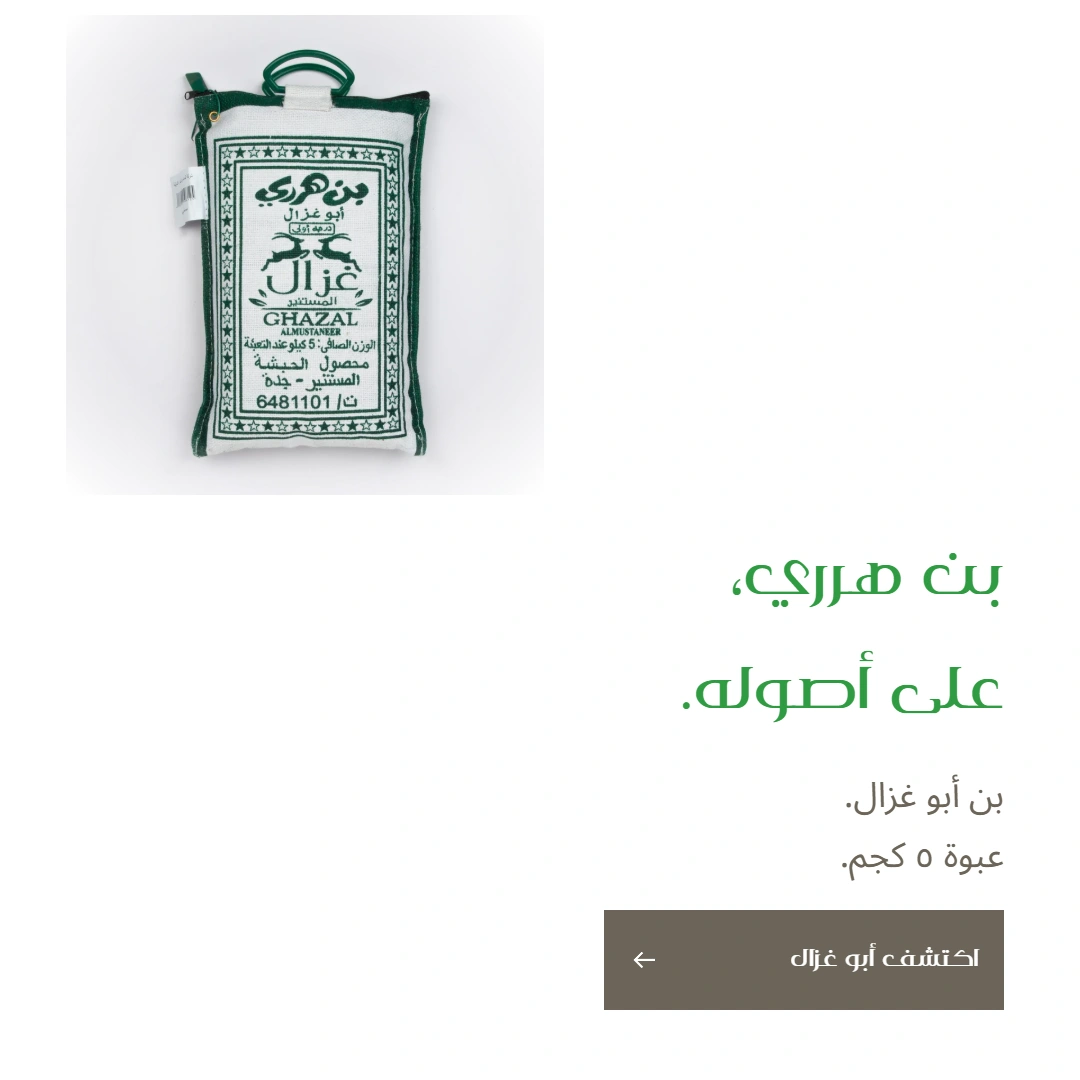
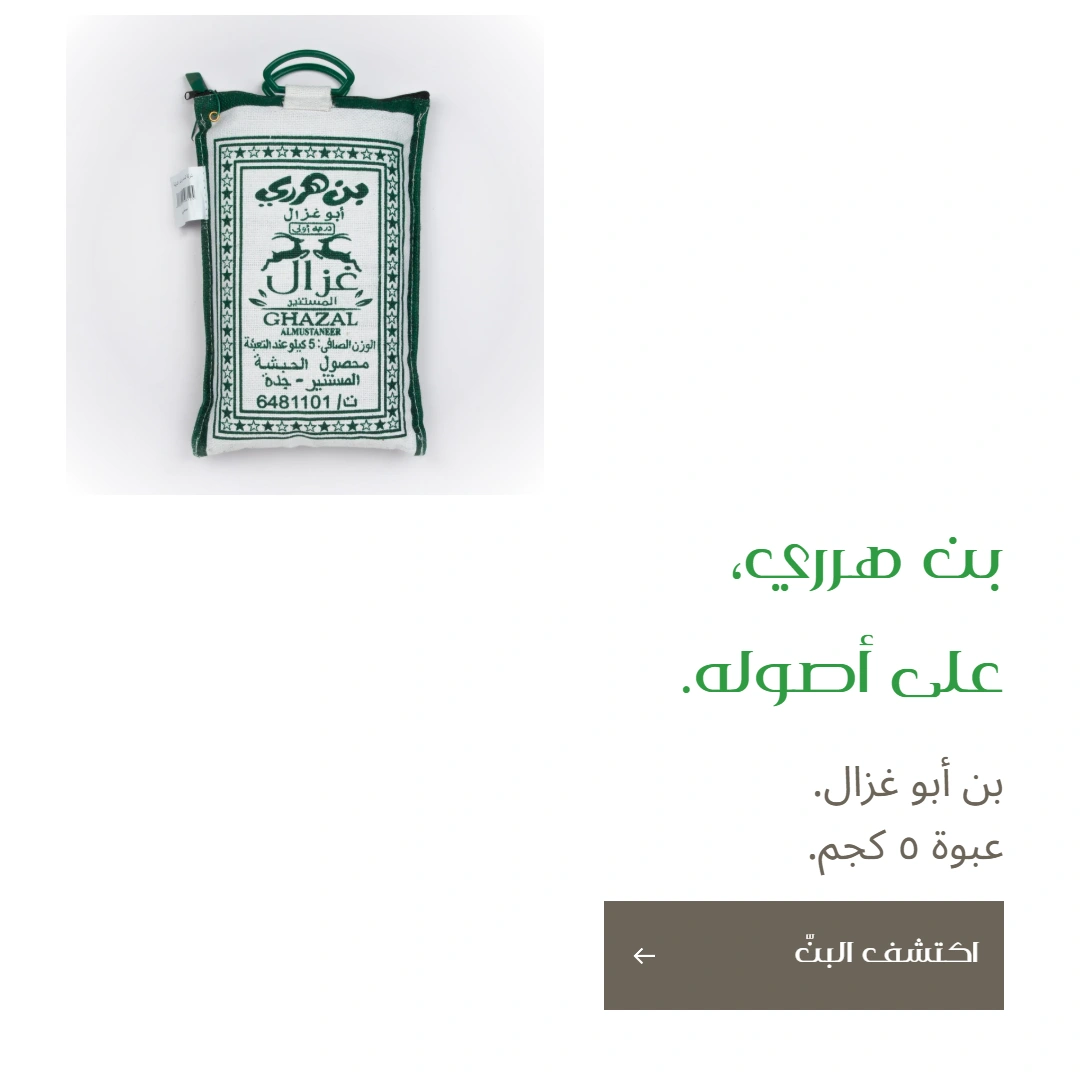
Improve mobile campaign legibility and coffee CTA

diff --git a/site/almustaneer/index.html b/site/almustaneer/index.html
@@ -1,6 +1,6 @@
 <!doctype html>
 <html lang="ar" dir="rtl">
-<head><meta charset="utf-8"><meta name="viewport" content="width=device-width,initial-scale=1"><meta name="theme-color" content="#153f30"><meta name="robots" content="noindex,nofollow"><meta name="description" content="اكتشف تشكيلة المستنير من البن والهيل، وقارن العبوات وجهّز قائمة استفسارك."><title>المستنير | أصل الضيافة، بنّ وهيل</title><link rel="icon" href="assets/logo.png"><link rel="preload" href="assets/etab.otf" as="font" type="font/otf" crossorigin><link rel="stylesheet" href="styles.css?v=4"><link rel="stylesheet" href="responsive-fixes.css?v=4"><link rel="stylesheet" href="campaigns.css?v=5"><link rel="stylesheet" href="white-theme.css?v=7"></head>
+<head><meta charset="utf-8"><meta name="viewport" content="width=device-width,initial-scale=1"><meta name="theme-color" content="#153f30"><meta name="robots" content="noindex,nofollow"><meta name="description" content="اكتشف تشكيلة المستنير من البن والهيل، وقارن العبوات وجهّز قائمة استفسارك."><title>المستنير | أصل الضيافة، بنّ وهيل</title><link rel="icon" href="assets/logo.png"><link rel="preload" href="assets/etab.otf" as="font" type="font/otf" crossorigin><link rel="stylesheet" href="styles.css?v=4"><link rel="stylesheet" href="responsive-fixes.css?v=4"><link rel="stylesheet" href="campaigns.css?v=5"><link rel="stylesheet" href="white-theme.css?v=8"></head>
 <body>
 <a class="skip" href="#main">انتقل إلى المحتوى</a>
 <div class="announcement">البنّ والهيل… تفاصيل الضيافة تبدأ هنا <span>معاينة · أسعار تجريبية · الطلب غير مفعّل</span></div>
@@ -10,16 +10,16 @@
  <div class="header-tools"><button class="icon-btn" id="search-toggle" aria-label="البحث في المنتجات"><svg viewBox="0 0 24 24"><circle cx="10.5" cy="10.5" r="6.5"/><path d="m16 16 5 5"/></svg></button><button class="icon-btn quote-open" aria-label="فتح قائمة الاستفسار"><svg viewBox="0 0 24 24"><path d="M5 7h14l1 14H4L5 7Z M8 8V6a4 4 0 0 1 8 0v2"/></svg><span id="quote-count">0</span></button><button class="icon-btn mobile-menu" aria-label="فتح القائمة" aria-expanded="false" aria-controls="navigation"><svg viewBox="0 0 24 24"><path d="M3 6h18M3 12h18M3 18h18"/></svg></button></div>
 </div></header>
 <main id="main">
-<section class="campaign campaign-hero" aria-label="أصل الضيافة، يبدأ من هنا."><h1 class="sr-only">أصل الضيافة، يبدأ من هنا.</h1><a class="campaign-link" href="#collection" data-category="all" aria-label="أصل الضيافة، يبدأ من هنا. — تصفّح التشكيلة"><picture><source media="(max-width:700px)" srcset="banners-white/hero-mobile.webp?v=7"><img src="banners-white/hero-desktop.webp?v=7" width="1920" height="820" fetchpriority="high" alt="أصل الضيافة، يبدأ من هنا. — اكتشف البنّ"></picture></a></section>
+<section class="campaign campaign-hero" aria-label="أصل الضيافة، يبدأ من هنا."><h1 class="sr-only">أصل الضيافة، يبدأ من هنا.</h1><a class="campaign-link" href="#collection" data-category="all" aria-label="أصل الضيافة، يبدأ من هنا. — تصفّح التشكيلة"><picture><source media="(max-width:700px)" srcset="banners-white/hero-mobile.webp?v=8"><img src="banners-white/hero-desktop.webp?v=8" width="1920" height="820" fetchpriority="high" alt="أصل الضيافة، يبدأ من هنا. — اكتشف البنّ"></picture></a></section>
 <div class="category-rail wrap"><a href="#collection" data-category="coffee"><span>البنّ</span><small>اختيارك يبدأ من الحبة</small><svg viewBox="0 0 24 24"><path d="M20 12H4m6-6-6 6 6 6"/></svg></a><a href="#collection" data-category="cardamom"><span>الهيل</span><small>التفصيلة التي تصنع النكهة</small><svg viewBox="0 0 24 24"><path d="M20 12H4m6-6-6 6 6 6"/></svg></a><a href="#collection" data-category="bulk"><span>عبوات الجملة</span><small>خيارات تناسب احتياج نشاطك</small><svg viewBox="0 0 24 24"><path d="M20 12H4m6-6-6 6 6 6"/></svg></a></div>
 <section id="collection" class="collection wrap"><div class="section-heading"><div><h2>من أصول الضيافة</h2><p>تعرّف على الأصناف، واختر العبوة المناسبة لك.</p></div><span id="result-count" class="result-count" aria-live="polite"></span></div>
 <div class="catalog-controls"><div class="filters" role="group" aria-label="تصفية المنتجات"><button data-filter="all" aria-pressed="true">جميع المنتجات</button><button data-filter="coffee" aria-pressed="false">البنّ</button><button data-filter="cardamom" aria-pressed="false">الهيل</button><button data-filter="bulk" aria-pressed="false">عبوات الجملة</button></div><label class="search-box"><svg viewBox="0 0 24 24"><circle cx="10.5" cy="10.5" r="6.5"/><path d="m16 16 5 5"/></svg><input id="search" type="search" placeholder="ابحث عن صنف أو عبوة" aria-label="ابحث عن منتج"></label></div>
 <p class="demo-price-note">الأسعار المعروضة افتراضية لتجربة التصميم، وليست عروض بيع. يُؤكَّد السعر والتوفر قبل أي طلب.</p><div class="products" id="products"></div><div id="empty" class="empty" hidden><h3>لم نجد صنفًا بهذا الاسم</h3><p>جرّب البحث عن «بن» أو «هيل»، أو اعرض التشكيلة كاملة.</p><button id="reset-search" class="button">عرض جميع المنتجات</button></div>
 <p class="catalog-note">صور العبوات مرجعية، وأسعار المعاينة تجريبية. السعر الفعلي والتوفر وبيانات الدفعات تُؤكّد قبل الطلب.</p><button id="show-more" class="button outline">عرض بقية التشكيلة <span id="more-count"></span></button>
 </section>
-<section class="campaign wrap" aria-label="بن هرري، على أصوله."><h2 class="sr-only">بن هرري، على أصوله.</h2><a class="campaign-link" href="#collection" data-category="coffee" aria-label="بن هرري، على أصوله. — تصفّح التشكيلة"><picture><source media="(max-width:700px)" srcset="banners-white/coffee-mobile.webp?v=7"><img src="banners-white/coffee-desktop.webp?v=7" width="1920" height="820" loading="lazy" alt="بن هرري، على أصوله. — اكتشف البنّ"></picture></a></section>
-<section class="campaign wrap" aria-label="لنشاطك، اختيار مدروس."><h2 class="sr-only">لنشاطك، اختيار مدروس.</h2><a class="campaign-link" href="#collection" data-category="bulk" aria-label="لنشاطك، اختيار مدروس. — تصفّح التشكيلة"><picture><source media="(max-width:700px)" srcset="banners-white/bulk-mobile.webp?v=7"><img src="banners-white/bulk-desktop.webp?v=7" width="1920" height="820" loading="lazy" alt="لنشاطك، اختيار مدروس. — جهّز اختياراتك للمحامص والمتاجر"></picture></a></section>
-<section class="campaign wrap" aria-label="تفصيلة صغيرة، تصنع النكهة."><h2 class="sr-only">تفصيلة صغيرة، تصنع النكهة.</h2><a class="campaign-link" href="#collection" data-category="cardamom" aria-label="تفصيلة صغيرة، تصنع النكهة. — تصفّح التشكيلة"><picture><source media="(max-width:700px)" srcset="banners-white/cardamom-mobile.webp?v=7"><img src="banners-white/cardamom-desktop.webp?v=7" width="1920" height="820" loading="lazy" alt="تفصيلة صغيرة، تصنع النكهة. — اكتشف الهيل"></picture></a></section>
+<section class="campaign wrap" aria-label="بن هرري، على أصوله."><h2 class="sr-only">بن هرري، على أصوله.</h2><a class="campaign-link" href="#collection" data-category="coffee" aria-label="بن هرري، على أصوله. — تصفّح التشكيلة"><picture><source media="(max-width:700px)" srcset="banners-white/coffee-mobile.webp?v=8"><img src="banners-white/coffee-desktop.webp?v=8" width="1920" height="820" loading="lazy" alt="بن هرري، على أصوله. — اكتشف البنّ"></picture></a></section>
+<section class="campaign wrap" aria-label="لنشاطك، اختيار مدروس."><h2 class="sr-only">لنشاطك، اختيار مدروس.</h2><a class="campaign-link" href="#collection" data-category="bulk" aria-label="لنشاطك، اختيار مدروس. — تصفّح التشكيلة"><picture><source media="(max-width:700px)" srcset="banners-white/bulk-mobile.webp?v=8"><img src="banners-white/bulk-desktop.webp?v=8" width="1920" height="820" loading="lazy" alt="لنشاطك، اختيار مدروس. — جهّز اختياراتك للمحامص والمتاجر"></picture></a></section>
+<section class="campaign wrap" aria-label="تفصيلة صغيرة، تصنع النكهة."><h2 class="sr-only">تفصيلة صغيرة، تصنع النكهة.</h2><a class="campaign-link" href="#collection" data-category="cardamom" aria-label="تفصيلة صغيرة، تصنع النكهة. — تصفّح التشكيلة"><picture><source media="(max-width:700px)" srcset="banners-white/cardamom-mobile.webp?v=8"><img src="banners-white/cardamom-desktop.webp?v=8" width="1920" height="820" loading="lazy" alt="تفصيلة صغيرة، تصنع النكهة. — اكتشف الهيل"></picture></a></section>
 <section id="wholesale" class="wholesale"><div class="wrap wholesale-inner"><div class="wholesale-copy"><h2>للمحامص والمتاجر،<br>اختيار يبدأ بالتفاصيل.</h2><p>حدّد الأصناف والعبوات والكميات المطلوبة في قائمة واحدة. جهّز استفسارك عن التوفر والسعر، دون أن يفوتك صنف.</p><button class="button cream quote-open">جهّز قائمة استفسارك <svg viewBox="0 0 24 24"><path d="M20 12H4m6-6-6 6 6 6"/></svg></button></div><div class="wholesale-products"><img src="assets/product-12.webp" alt="كيس بن من تشكيلة المستنير" loading="lazy"><img src="assets/product-13.webp" alt="كرتون هيل أبو طيارة XL" loading="lazy"></div></div></section>
 <section id="story" class="story wrap"><div><h2>المستنير.<br>اسم يجمع البنّ والهيل.</h2></div><div><p class="story-lead">من البنّ الهرري إلى الهيل الهندي، تجمع تشكيلة المستنير خيارات من صميم ثقافة القهوة والضيافة.</p><p>نضع تفاصيل العبوة في متناولك، لتقارن بين الأصناف والأحجام وتبدأ اختيارك على معرفة. لأن الفنجان الذي تقدّمه، يبدأ بما تختاره.</p><a href="#collection" class="underlink" data-category="all">تعرّف على التشكيلة <span aria-hidden="true">←</span></a></div></section>
 <section class="faq wrap"><h2>قبل أن تختار</h2><div><details><summary>كيف أختار بين العبوات؟</summary><p>راجع وزن العبوة واسم الصنف في تفاصيل المنتج. بعض الصور تعرض عبوات صغيرة، وأخرى أكياسًا أو كراتين. تفاصيل العبوات غير الواضحة تحتاج تأكيدًا قبل الطلب.</p></details><details><summary>هل الأسعار والتوفر مؤكّدان؟</summary><p>هذه معاينة للتشكيلة بأسعار افتراضية لتجربة التصميم، وليست عروض بيع. لم تُعتمد الأسعار الحقيقية أو كميات المخزون بعد. صور بعض العبوات أرشيفية، ولا تعبّر عن دفعات حالية متاحة للبيع.</p></details><details><summary>كيف أجهّز طلب جملة؟</summary><p>أضف الأصناف إلى قائمة الاستفسار، ثم حدّد عدد العبوات. يمكنك نسخ القائمة أو تنزيلها للاحتفاظ بها. لا تُرسل القائمة تلقائيًا، ولا تُنشئ طلب شراء.</p></details><details><summary>ما خيارات الشحن والدفع؟</summary><p>لا توجد مدفوعات أو عمليات شراء في هذه المعاينة. يمكنك الاطلاع على <a class="underlink" href="policies.html">السياسات المقترحة للبيع والشحن والاسترجاع</a>، على أن تُعتمد تفاصيل التشغيل قبل تفعيل الطلبات.</p></details></div></section>
@@ -27,6 +27,7 @@
 <footer><div class="footer-main wrap"><div><img src="assets/logo.png" alt="شركة المستنير للتجارة الدولية" width="320" height="65"><p>أصل الضيافة، يبدأ من هنا.</p></div><div><h3>اكتشف التشكيلة</h3><a href="#collection" data-category="coffee">البنّ</a><a href="#collection" data-category="cardamom">الهيل</a><a href="#wholesale">طلبات الجملة</a></div><div><h3>المستنير</h3><a href="#story">عن المستنير</a><button class="footer-link quote-open">قائمة الاستفسار</button><p>معاينة تصميمية · غير مفعّلة للبيع</p></div><div><h3>السياسات والمساعدة</h3><a href="policies.html#sales">شروط البيع</a><a href="policies.html#shipping">الشحن والتوصيل</a><a href="policies.html#returns">الاستبدال والاسترجاع</a><a href="policies.html#privacy">سياسة الخصوصية</a></div></div><div class="footer-bottom wrap"><span>شركة المستنير للتجارة الدولية</span><span>البنّ والهيل، بروح الضيافة.</span></div></footer>
 <dialog id="product-dialog" aria-labelledby="detail-title"><button class="dialog-close icon-btn" aria-label="إغلاق تفاصيل المنتج"><svg viewBox="0 0 24 24"><path d="m6 6 12 12M18 6 6 18"/></svg></button><div id="product-detail"></div></dialog>
 <dialog id="quote-dialog" aria-labelledby="quote-title"><button class="dialog-close icon-btn" aria-label="إغلاق قائمة الاستفسار"><svg viewBox="0 0 24 24"><path d="m6 6 12 12M18 6 6 18"/></svg></button><h2 id="quote-title">قائمة استفسارك</h2><p class="quote-intro">أصنافك في مكان واحد. حدّد عدد العبوات، ثم احتفظ بالقائمة للاستفسار عن السعر والتوفر.</p><div id="quote-items"></div><div id="quote-actions"><button class="button" id="copy-quote">نسخ الاستفسار</button><button class="button outline" id="download-quote">تنزيل القائمة</button></div><p class="quote-note">هذه قائمة محلية على جهازك. لا يتم إرسالها أو حجز مخزون أو إنشاء طلب شراء.</p></dialog>
-<div id="toast" role="status" aria-live="polite"></div><script src="products.js?v=7"></script><script src="app.js?v=7"></script>
+<div id="toast" role="status" aria-live="polite"></div><script src="products.js?v=8"></script><script src="app.js?v=8"></script>
 </body></html>
+
 

diff --git a/site/almustaneer/policies.html b/site/almustaneer/policies.html
@@ -1,4 +1,4 @@
-<!doctype html><html lang="ar" dir="rtl"><head><meta charset="utf-8"><meta name="viewport" content="width=device-width,initial-scale=1"><meta name="robots" content="noindex,nofollow"><title>السياسات والمساعدة | المستنير</title><link rel="icon" href="assets/logo.png"><link rel="stylesheet" href="styles.css?v=4"><link rel="stylesheet" href="responsive-fixes.css?v=4"><link rel="stylesheet" href="white-theme.css?v=7"></head><body><header><div class="header-inner"><a class="brand" href="./" aria-label="العودة إلى المستنير"><img src="assets/logo.png" width="1042" height="210" alt="شركة المستنير للتجارة الدولية"></a><a class="policy-back" href="./">العودة للمتجر ←</a></div></header><main class="policy-shell"><p>المستنير · السياسات والمساعدة</p><h1>وضوح في كل خطوة.</h1><p>شروط البيع، تفاصيل الشحن، وحقوقك عند الاسترجاع واستخدام بياناتك.</p><div class="policy-notice"><strong>مسودة مقترحة قبل إطلاق البيع</strong><p>الموقع حاليًا معاينة للتشكيلة، ولا يستقبل مدفوعات أو طلبات شراء. بنود البيع والشحن والاسترجاع التالية مقترحة للاعتماد قبل الإطلاق؛ أما قسم خصوصية المعاينة فيصف طريقة عمل الموقع الحالي.</p></div><nav class="policy-nav" aria-label="أقسام السياسات"><a href="#sales">شروط البيع</a><a href="#shipping">الشحن والتوصيل</a><a href="#returns">الاستبدال والاسترجاع</a><a href="#privacy">الخصوصية</a></nav>
+<!doctype html><html lang="ar" dir="rtl"><head><meta charset="utf-8"><meta name="viewport" content="width=device-width,initial-scale=1"><meta name="robots" content="noindex,nofollow"><title>السياسات والمساعدة | المستنير</title><link rel="icon" href="assets/logo.png"><link rel="stylesheet" href="styles.css?v=4"><link rel="stylesheet" href="responsive-fixes.css?v=4"><link rel="stylesheet" href="white-theme.css?v=8"></head><body><header><div class="header-inner"><a class="brand" href="./" aria-label="العودة إلى المستنير"><img src="assets/logo.png" width="1042" height="210" alt="شركة المستنير للتجارة الدولية"></a><a class="policy-back" href="./">العودة للمتجر ←</a></div></header><main class="policy-shell"><p>المستنير · السياسات والمساعدة</p><h1>وضوح في كل خطوة.</h1><p>شروط البيع، تفاصيل الشحن، وحقوقك عند الاسترجاع واستخدام بياناتك.</p><div class="policy-notice"><strong>مسودة مقترحة قبل إطلاق البيع</strong><p>الموقع حاليًا معاينة للتشكيلة، ولا يستقبل مدفوعات أو طلبات شراء. بنود البيع والشحن والاسترجاع التالية مقترحة للاعتماد قبل الإطلاق؛ أما قسم خصوصية المعاينة فيصف طريقة عمل الموقع الحالي.</p></div><nav class="policy-nav" aria-label="أقسام السياسات"><a href="#sales">شروط البيع</a><a href="#shipping">الشحن والتوصيل</a><a href="#returns">الاستبدال والاسترجاع</a><a href="#privacy">الخصوصية</a></nav>
 <section id="sales"><h2>شروط البيع والطلب</h2><p>قائمة الاستفسار وسيلة لحفظ الأصناف والكميات، ولا تعني حجز مخزون أو قبول طلب. قبل تفعيل البيع، تُعرض الأسعار النهائية والضرائب المطبقة وتكاليف الشحن ووسائل الدفع بوضوح قبل تأكيد الطلب.</p><ul><li>تُؤكَّد مواصفات المنتج ووزنه والتوفر وبيانات الدفعة الحالية قبل الشراء. صور العبوات الحالية مرجعية وقد تختلف عن الدفعات الجديدة.</li><li>يصبح الطلب نافذًا وفق إجراءات التأكيد المعلنة عند الإطلاق، ويُرسل للعميل ملخص بالأصناف والكميات والمبلغ وبيانات التسليم.</li><li>إذا تعذر توفير صنف أو ظهر خطأ في السعر، يُبلَّغ العميل قبل التنفيذ، ولا يُستبدل الصنف أو يُعدَّل المبلغ دون موافقته.</li><li>طلبات الجملة تخضع لعرض سعر يوضح الكميات والتسليم والسداد ومدة صلاحية العرض، دون إخلال بالحقوق النظامية المنطبقة.</li></ul></section>
 <section id="shipping"><h2>الشحن والتوصيل</h2><p>تُحدَّد مناطق التغطية ورسوم الشحن والمدة المتوقعة لكل وجهة قبل الدفع. لم تُعتمد شركات الشحن أو المدد في هذه المعاينة، ولذلك لا نعرض وعدًا زمنيًا غير مؤكد.</p><ul><li>يراجع العميل عنوان التسليم ورقم التواصل، ويُزوَّد بوسيلة تتبع عندما تتاح من شركة الشحن.</li><li>عند حدوث تأخير، تُوضَّح حالة الطلب والخيارات المتاحة، مع الحفاظ على حقوق العميل في الإلغاء وفق الأنظمة المطبقة.</li><li>يُرجى فحص العبوة عند الاستلام وتوثيق أي تلف ظاهر، والاحتفاظ بالعبوة والفاتورة للمساعدة في معالجة المشكلة. عدم التصوير عند الاستلام لا يسقط الحقوق النظامية.</li></ul></section>
 <section id="returns"><h2>الاستبدال والاسترجاع والإلغاء</h2><p>الصياغة المقترحة: يمكن طلب إلغاء الطلب قبل شحنه. وبعد الاستلام يُنظر في الاسترجاع وفق حالة المنتج والأنظمة المطبقة، مع توضيح الشروط للعميل قبل الشراء.</p><ul><li>للمنتجات المؤهلة، تُقترح مهلة 7 أيام من الاستلام لطلب الإرجاع دون استخدام أو انتفاع، مع مراعاة الاستثناءات النظامية وطبيعة الأغذية.</li><li>فتح العبوة الغذائية أو استخدامها قد يؤثر في أهلية الإرجاع بسبب تغيير الرأي. لا يشمل ذلك المنتج المعيب أو غير المطابق أو التالف عند التسليم، ولا يُلغى أي حق نظامي.</li><li>يُرفق رقم الطلب ووصف المشكلة وما يتاح من صور، عبر قناة خدمة العملاء التي ستُعلن قبل الإطلاق.</li><li>عند ثبوت خطأ المتجر أو عيب المنتج، يتحمل المتجر تكاليف المعالجة والإرجاع اللازمة. وفي تغيير الرأي تُوضَّح تكاليف الإرجاع مسبقًا وفق النظام والاتفاق مع العميل.</li><li>يُرد المبلغ المستحق إلى وسيلة الدفع الأصلية ما لم يُتفق على بديل مشروع. ستُعلن مدة المعالجة المعتمدة قبل تفعيل البيع؛ وتختلف مدة ظهور الرصيد بحسب مزود الدفع.</li></ul></section>

diff --git a/site/almustaneer/white-studio.html b/site/almustaneer/white-studio.html
@@ -1,8 +1,9 @@
 <!doctype html><html lang="ar" dir="rtl"><head><meta charset="utf-8"><meta name="viewport" content="width=device-width,initial-scale=1"><title>المستنير — المجموعة البيضاء</title><style>
 @font-face{font-family:Etab;src:url('assets/etab.otf') format('opentype');font-weight:400;font-display:block}@font-face{font-family:Noto;src:url('assets/body.ttf')}*{box-sizing:border-box}body{margin:0;background:#fff}.canvas{position:relative;width:1920px;height:820px;overflow:hidden;background:#fff;color:#6b6458}.art{position:absolute;inset:0;width:100%;height:100%;object-fit:cover}.copy{position:absolute;right:125px;width:760px;top:50%;transform:translateY(-50%);text-align:right}h1{font:400 122px/1.25 Etab,serif;color:#309b42;margin:0 0 24px;text-wrap:balance}p{font:400 30px/1.9 Noto,sans-serif;margin:0 0 35px;max-width:690px}.cta{display:inline-flex;align-items:center;justify-content:space-between;gap:52px;min-width:365px;min-height:92px;padding:18px 34px;background:#6b6458;color:#fff;font:400 38px/1.5 Etab,serif}.cta svg{width:30px;height:30px;fill:none;stroke:currentColor;stroke-width:1.7}.square{width:1080px;height:1080px}.square .copy{top:auto;bottom:92px;right:76px;width:500px;transform:none}.square h1{font-size:88px;line-height:1.3;margin-bottom:24px}.square p{font-size:35px;line-height:1.8;margin-bottom:30px}.square .cta{font-size:38px;min-width:400px;padding:20px 26px;gap:24px}.square[data-name="hero"] h1{font-size:86px}.square[data-name="bulk"] h1{font-size:86px}
-.square .art{width:1320px;height:566px;max-width:none;inset:auto;left:0;top:-45px;object-fit:contain}.square .copy{width:840px;bottom:78px}.square h1,.square[data-name="hero"] h1,.square[data-name="bulk"] h1{font-size:95px;line-height:1.2}.square p{font-size:35px;line-height:1.7;margin-bottom:24px}.square .cta{min-height:100px}.canvas[data-name="coffee"] .art{width:800px;height:700px;inset:auto;left:70px;top:60px;object-fit:contain;mix-blend-mode:multiply}.square[data-name="coffee"] .art{width:480px;height:480px;left:65px;top:15px}.square .art{mask-image:linear-gradient(to bottom,#000 0%,#000 83%,transparent 100%)}.canvas[data-name="coffee"] .art{mask-image:radial-gradient(ellipse at center,#000 62%,transparent 99%)}.square h1{margin-bottom:16px}.square .copy{bottom:70px}</style></head><body><main class="canvas"><img class="art" alt=""><div class="copy"><h1></h1><p></p><div class="cta"><span></span><svg viewBox="0 0 24 24"><path d="M20 12H4m6-6-6 6 6 6"/></svg></div></div></main><script>
-const q=new URLSearchParams(location.search),name=q.get('campaign')||'hero',size=q.get('size')||'desktop';const texts={hero:{title:'أصل الضيافة،<br>يبدأ من هنا.',copy:'بنّ وهيل من تشكيلة المستنير.<br>اختيارك لفنجان له طابعه.',cta:'اكتشف التشكيلة'},coffee:{title:'بن هرري،<br>على أصوله.',copy:'تعرّف على بن أبو غزال<br>في عبوة ٥ كجم.',cta:'اكتشف أبو غزال'},bulk:{title:'لنشاطك،<br>اختيار مدروس.',copy:'تشكيلة عبوات للمحامص والمتاجر.<br>قارن الأصناف وجهّز اختياراتك.',cta:'تصفّح عبوات الجملة'},cardamom:{title:'تفصيلة صغيرة،<br>تصنع النكهة.',copy:'اكتشف تشكيلة الهيل،<br>واختر العبوة المناسبة لك.',cta:'اكتشف الهيل'}};const c=texts[name];if(size==='mobile'){if(name==='hero')c.copy='بنّ وهيل،<br>بروح المستنير.';if(name==='coffee')c.copy='بن أبو غزال.<br>عبوة ٥ كجم.';if(name==='bulk')c.copy='عبوات للمحامص<br>والمتاجر.';if(name==='cardamom')c.copy='تشكيلة هيل<br>لكل اختيار.'}document.querySelector('.canvas').dataset.name=name;document.querySelector('.canvas').classList.toggle('square',size==='mobile');document.querySelector('.art').src=`assets/white-campaigns/${name}-desktop.png`;if(name==='coffee')document.querySelector('.art').src='assets/product-1.webp';document.querySelector('h1').innerHTML=c.title;document.querySelector('p').innerHTML=c.copy;document.querySelector('.cta span').textContent=c.cta;
+.square .art{width:1320px;height:566px;max-width:none;inset:auto;left:0;top:-45px;object-fit:contain}.square .copy{width:840px;bottom:78px}.square h1,.square[data-name="hero"] h1,.square[data-name="bulk"] h1{font-size:95px;line-height:1.2}.square p{font-size:35px;line-height:1.7;margin-bottom:24px}.square .cta{min-height:100px}.canvas[data-name="coffee"] .art{width:800px;height:700px;inset:auto;left:70px;top:60px;object-fit:contain;mix-blend-mode:multiply}.square[data-name="coffee"] .art{width:480px;height:480px;left:65px;top:15px}.square .art{mask-image:linear-gradient(to bottom,#000 0%,#000 83%,transparent 100%)}.canvas[data-name="coffee"] .art{mask-image:radial-gradient(ellipse at center,#000 62%,transparent 99%)}.square h1{margin-bottom:16px}.square .copy{bottom:70px}.square p{font-size:42px;line-height:1.5}.square .cta{font-size:46px}</style></head><body><main class="canvas"><img class="art" alt=""><div class="copy"><h1></h1><p></p><div class="cta"><span></span><svg viewBox="0 0 24 24"><path d="M20 12H4m6-6-6 6 6 6"/></svg></div></div></main><script>
+const q=new URLSearchParams(location.search),name=q.get('campaign')||'hero',size=q.get('size')||'desktop';const texts={hero:{title:'أصل الضيافة،<br>يبدأ من هنا.',copy:'بنّ وهيل من تشكيلة المستنير.<br>اختيارك لفنجان له طابعه.',cta:'اكتشف التشكيلة'},coffee:{title:'بن هرري،<br>على أصوله.',copy:'تعرّف على بن أبو غزال<br>في عبوة ٥ كجم.',cta:'اكتشف البنّ'},bulk:{title:'لنشاطك،<br>اختيار مدروس.',copy:'تشكيلة عبوات للمحامص والمتاجر.<br>قارن الأصناف وجهّز اختياراتك.',cta:'تصفّح عبوات الجملة'},cardamom:{title:'تفصيلة صغيرة،<br>تصنع النكهة.',copy:'اكتشف تشكيلة الهيل،<br>واختر العبوة المناسبة لك.',cta:'اكتشف الهيل'}};const c=texts[name];if(size==='mobile'){if(name==='hero')c.copy='بنّ وهيل،<br>بروح المستنير.';if(name==='coffee')c.copy='بن أبو غزال.<br>عبوة ٥ كجم.';if(name==='bulk')c.copy='عبوات للمحامص<br>والمتاجر.';if(name==='cardamom')c.copy='تشكيلة هيل<br>لكل اختيار.'}document.querySelector('.canvas').dataset.name=name;document.querySelector('.canvas').classList.toggle('square',size==='mobile');document.querySelector('.art').src=`assets/white-campaigns/${name}-desktop.png`;if(name==='coffee')document.querySelector('.art').src='assets/product-1.webp';document.querySelector('h1').innerHTML=c.title;document.querySelector('p').innerHTML=c.copy;document.querySelector('.cta span').textContent=c.cta;
 </script></body></html>
+
 
 
 

diff --git a/site/almustaneer/white-theme.css b/site/almustaneer/white-theme.css
@@ -3,3 +3,5 @@
 @media(max-width:700px){.campaign img{aspect-ratio:1}.campaign{margin-bottom:22px}.campaign-hero{margin-bottom:0}.campaign:not(.campaign-hero){width:94%}}
 @media(max-width:600px){.section-heading h2{font-size:36px}.category-rail span{font-size:25px}.category-rail small{font-size:11px}.collection{padding-block:38px}.product-price strong{font-size:17px}.product-bottom{align-items:flex-start}.product-title{font-size:14px}.demo-price-note{font-size:12px;margin-bottom:20px}.wholesale-copy h2,.story h2,.faq h2{font-size:36px}.announcement{font-size:11px}}
 
+.product-price small,.category-rail small,.announcement{font-size:12px}
+
